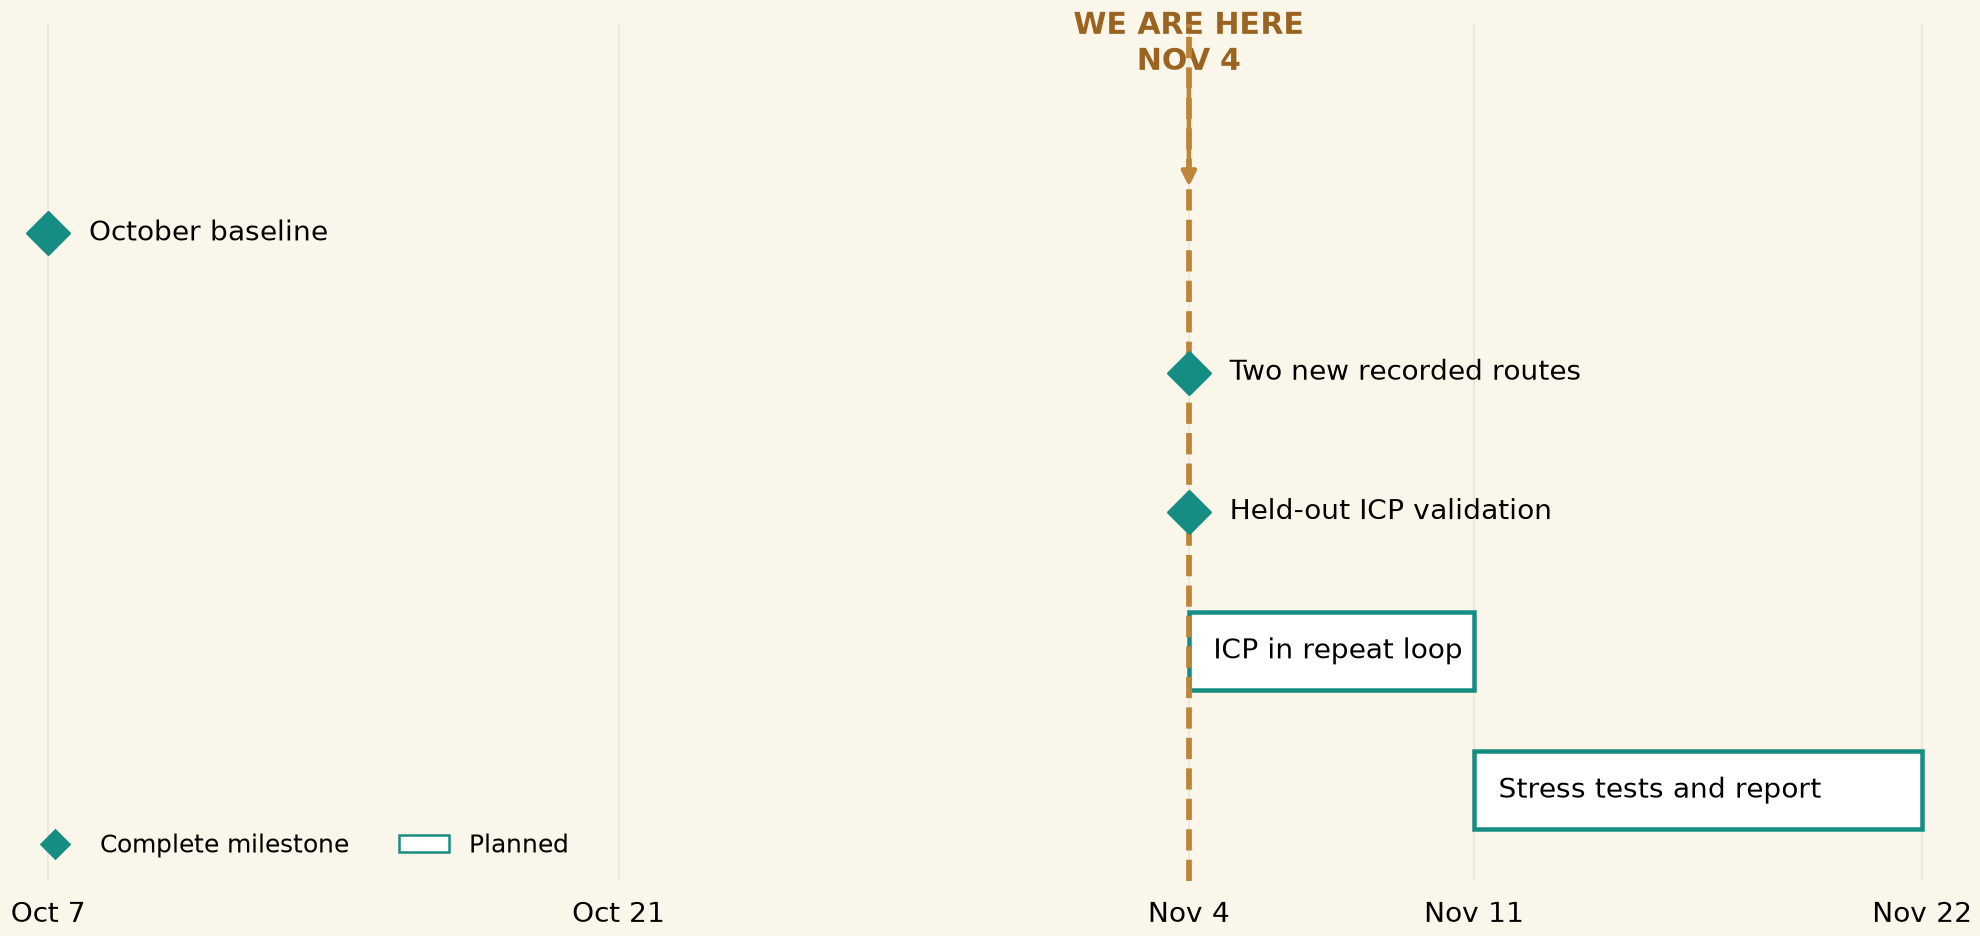
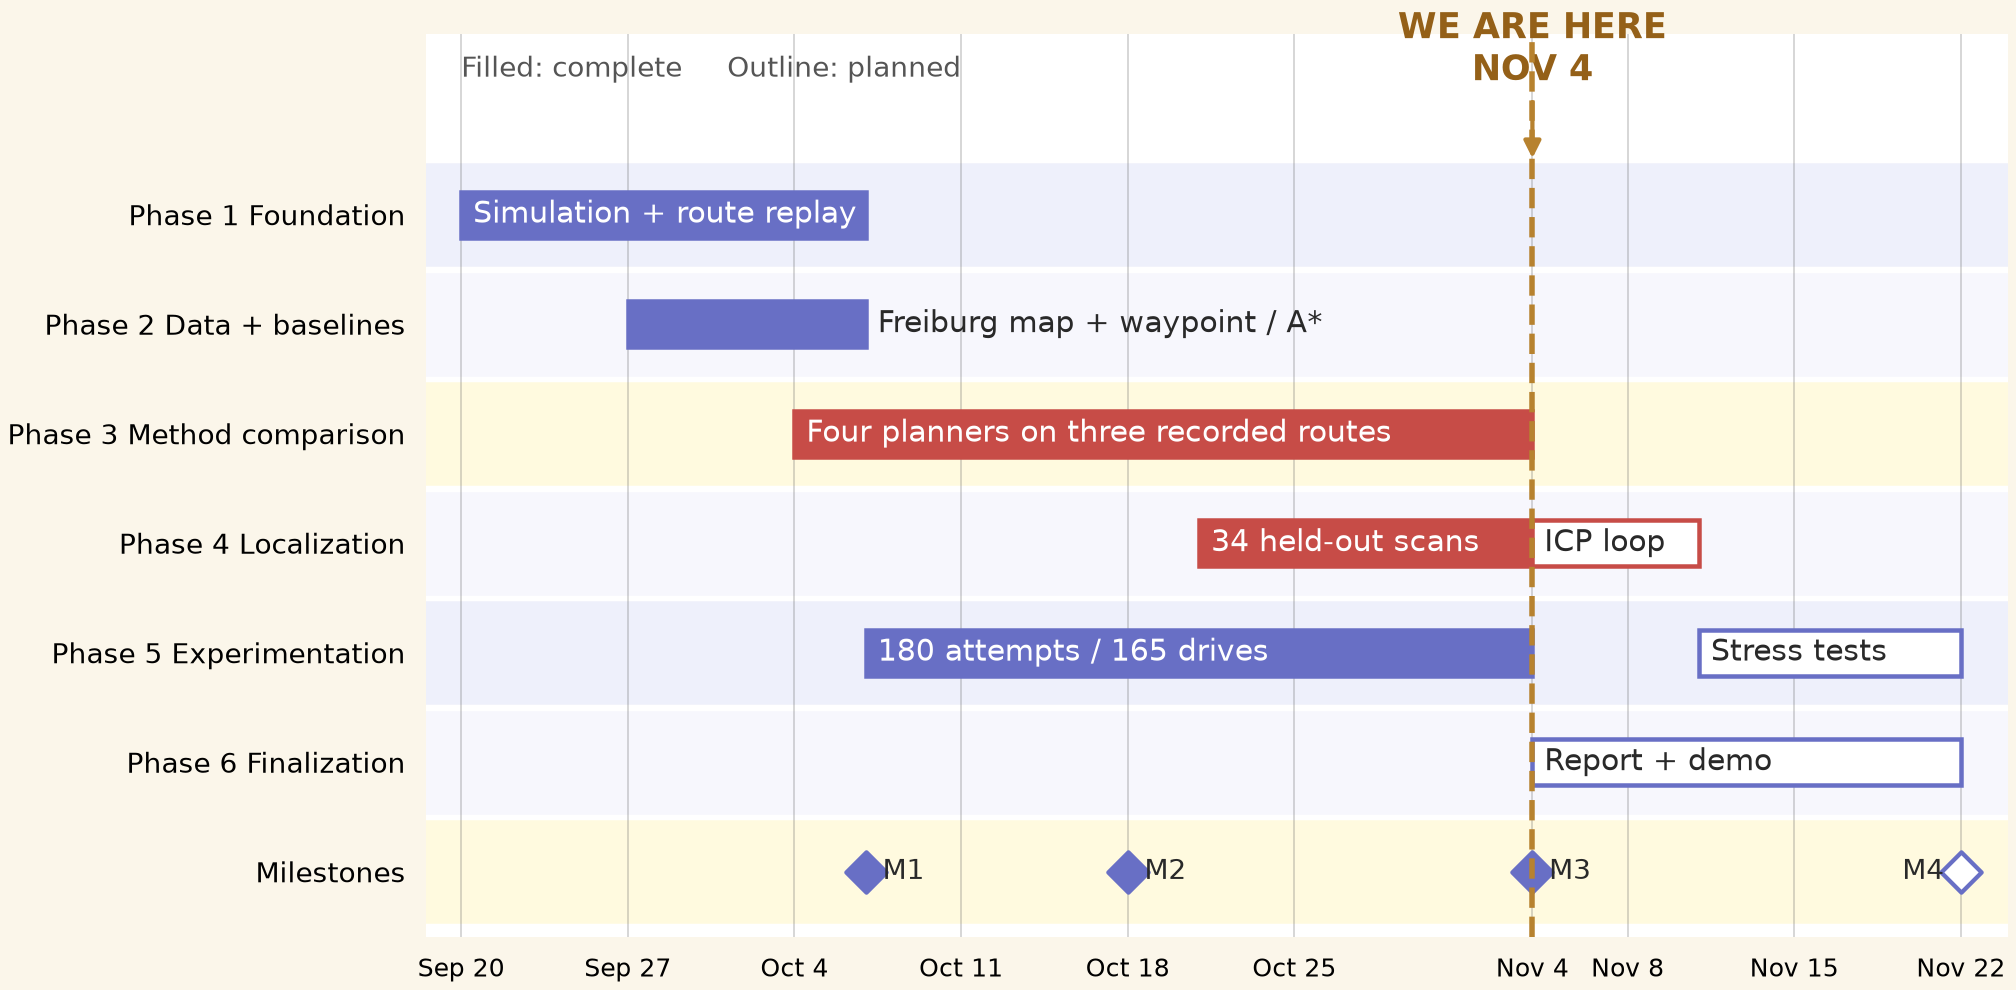
Rebuild project Gantt for November checkpoint

diff --git a/src/nov4_visuals.py b/src/nov4_visuals.py
@@ -6,8 +6,6 @@ import matplotlib
 
 matplotlib.use("Agg")
 import matplotlib.pyplot as plt
-from matplotlib.lines import Line2D
-from matplotlib.patches import Patch
 import numpy as np
 
 from recorded_demo import RecordedMap, read_log
@@ -59,38 +57,66 @@ def recorded_routes():
 
 
 def timeline():
-    fig, ax = plt.subplots(figsize=(11, 5.2), layout="constrained")
+    fig, ax = plt.subplots(figsize=(11.2, 5.5), layout="constrained")
     fig.patch.set_facecolor("#fbf6ea")
-    ax.set_facecolor("#fbf6ea")
-    # Filled diamonds are dated results; outlined bars are future schedule windows.
-    for label, day, y in (("October baseline", 0, 4),
-                          ("Two new recorded routes", 28, 3),
-                          ("Held-out ICP validation", 28, 2)):
-        ax.scatter(day, y, s=145, marker="D", color="#168d82", zorder=5)
-        ax.text(day + 1, y, label, va="center", ha="left", fontsize=11)
-    for label, left, width, y in (("ICP in repeat loop", 28, 7, 1),
-                                  ("Stress tests and report", 35, 11, 0)):
-        ax.barh(y, width, left=left, height=.56, color="white",
-                edgecolor="#168d82", linewidth=1.8)
-        ax.text(left + .6, y, label, va="center", ha="left", fontsize=11)
-    ax.axvline(28, color="#bc8537", lw=2.3, ls="--", zorder=4)
-    ax.annotate("WE ARE HERE\nNOV 4", xy=(28, 4.3), xytext=(28, 5.1),
-                ha="center", va="bottom", color="#9b6320", weight="bold", fontsize=12,
-                arrowprops={"arrowstyle": "-|>", "color": "#bc8537", "lw": 1.8})
-    ax.set_xlim(-1, 47)
-    ax.set_ylim(-.65, 5.5)
-    ax.set_yticks([])
-    ax.set_xticks((0, 14, 28, 35, 46), ("Oct 7", "Oct 21", "Nov 4", "Nov 11", "Nov 22"))
-    ax.tick_params(axis="x", labelsize=11, length=0, pad=8)
-    ax.grid(axis="x", alpha=.2)
+    ax.set_facecolor("white")
+    indigo, red, amber = "#686fc5", "#c74c47", "#b7822f"
+    bands = (
+        (6, "#eef0fb"), (5, "#f7f7fd"), (4, "#fffadf"),
+        (3, "#f7f7fd"), (2, "#eef0fb"), (1, "#f7f7fd"), (0, "#fffadf"),
+    )
+    for y, color in bands:
+        ax.axhspan(y - .46, y + .46, color=color, zorder=0)
+
+    # Schedule windows follow the class timeline; filled work is complete at Nov 4.
+    tasks = (
+        (6, 0, 17, "Simulation + route replay", indigo, True, True),
+        (5, 7, 17, "Freiburg map + waypoint / A*", indigo, True, False),
+        (4, 14, 45, "Four planners on three recorded routes", red, True, True),
+        (3, 31, 45, "34 held-out scans", red, True, True),
+        (3, 45, 52, "ICP loop", red, False, True),
+        (2, 17, 45, "180 attempts / 165 drives", indigo, True, True),
+        (2, 52, 63, "Stress tests", indigo, False, True),
+        (1, 45, 63, "Report + demo", indigo, False, True),
+    )
+    for y, start, end, label, color, done, inside in tasks:
+        ax.barh(y, end - start, left=start, height=.42,
+                color=color if done else "white", edgecolor=color,
+                linewidth=1.8, zorder=3)
+        ax.text(start + .5 if inside else end + .5, y, label,
+                va="center", ha="left", fontsize=12,
+                color="white" if done and inside else "#292929", zorder=4)
+
+    for x, label in ((17, "M1"), (28, "M2"), (45, "M3"), (63, "M4")):
+        ax.scatter(x, 0, s=130, marker="D",
+                   facecolor=indigo if x < 63 else "white",
+                   edgecolor=indigo, linewidth=1.7, zorder=5)
+        ax.text(x + .7 if x < 63 else x - .7, 0, label,
+                ha="left" if x < 63 else "right", va="center",
+                fontsize=11, color="#292929", zorder=5)
+
+    ax.axvline(45, color=amber, lw=2.2, ls="--", zorder=6)
+    ax.annotate("WE ARE HERE\nNOV 4", xy=(45, 6.47), xytext=(45, 7.12),
+                ha="center", va="bottom", fontsize=14, color="#946018",
+                weight="bold", arrowprops={"arrowstyle": "-|>", "color": amber, "lw": 1.7})
+    ax.text(0, 7.2, "Filled: complete     Outline: planned", fontsize=11,
+            color="#555555", va="bottom")
+    ax.set_xlim(-1.5, 65)
+    ax.set_ylim(-.6, 7.65)
+    ax.set_yticks((6, 5, 4, 3, 2, 1, 0),
+                  ("Phase 1 Foundation", "Phase 2 Data + baselines",
+                   "Phase 3 Method comparison", "Phase 4 Localization",
+                   "Phase 5 Experimentation", "Phase 6 Finalization",
+                   "Milestones"))
+    ax.tick_params(axis="y", labelsize=11, length=0, pad=8)
+    ax.set_xticks((0, 7, 14, 21, 28, 35, 45, 49, 56, 63),
+                  ("Sep 20", "Sep 27", "Oct 4", "Oct 11", "Oct 18",
+                   "Oct 25", "Nov 4", "Nov 8", "Nov 15", "Nov 22"))
+    ax.tick_params(axis="x", labelsize=10, length=0, pad=8)
+    ax.grid(axis="x", color="#555555", alpha=.23)
     ax.set_axisbelow(True)
     for spine in ax.spines.values():
         spine.set_visible(False)
-    ax.legend(handles=(Line2D([], [], marker="D", linestyle="", markersize=8,
-                              markerfacecolor="#168d82", markeredgecolor="#168d82",
-                              label="Complete milestone"),
-                       Patch(facecolor="white", edgecolor="#168d82", label="Planned")),
-              frameon=False, loc="lower left", ncol=2)
     fig.savefig(OUT / "timeline.png", dpi=180, facecolor=fig.get_facecolor())
     plt.close(fig)
 

diff --git a/README.md b/README.md
@@ -11,6 +11,8 @@ Project update for November 4, 2026. Routes and obstacles come from **recorded o
 
 The November deck adds two recorded route segments, a 34-scan ICP validation, updated results, and a dated timeline with the November 4 marker. Its cream and teal layout follows the team's class deck. [Recorded route figure](results/nov4/recorded_routes.png) and [timeline figure](results/nov4/timeline.png) are generated by the same repository code.
 
+The Gantt keeps the original six phases. Filled bars show work completed by November 4; outlined bars show planned work. ICP integration moved from the original November 1 window to November 11. The final package target remains November 22.
+
 ## November 4 results
 
 The benchmark now covers Freiburg scan windows 300–549, 1050–1299, and 1800–2049. The later two taught routes are 30.60 m and 20.92 m. Each route uses the same four methods and 15 offset starts. The 550–799 and 800–1049 windows failed the 0.15 m route-clearance screen and were excluded from drive trials.
